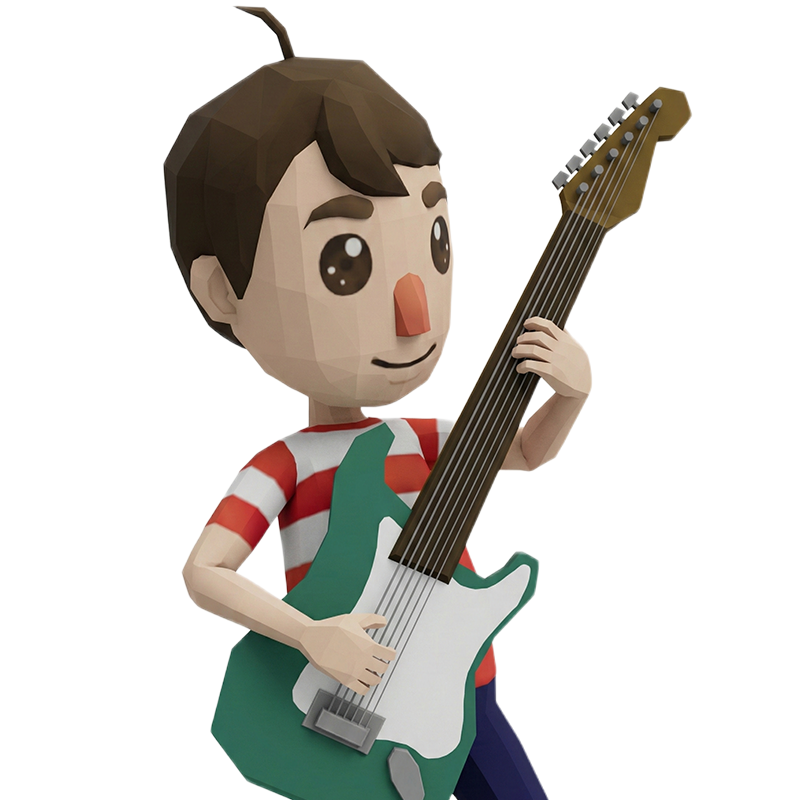
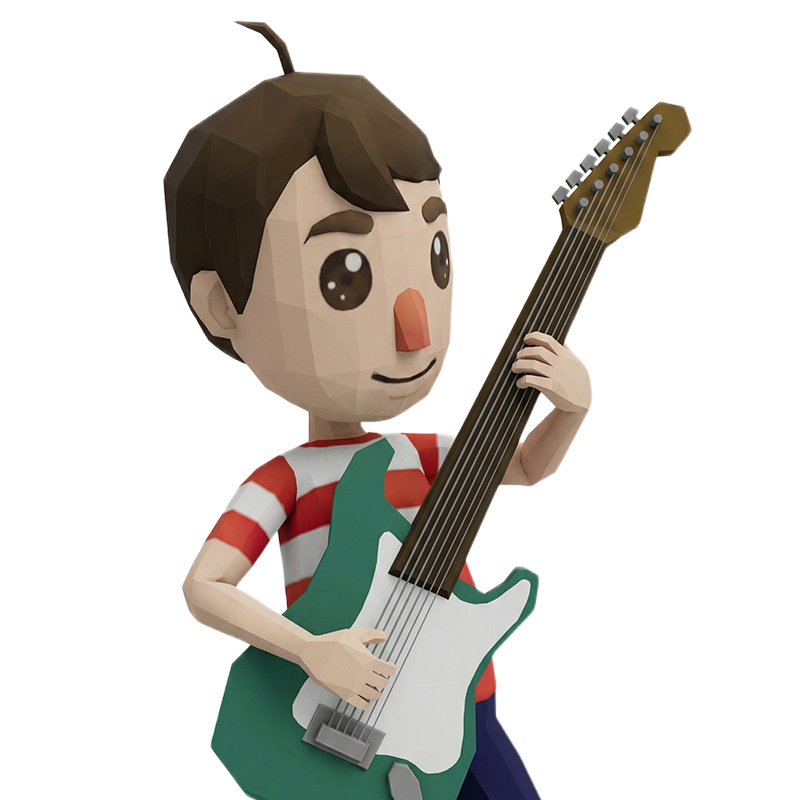
Update hero image rotation interval and adjust layout styles in Home component

diff --git a/src/pages/Home.tsx b/src/pages/Home.tsx
@@ -53,7 +53,7 @@ function Home() {
   useEffect(() => {
     const interval = window.setInterval(() => {
       setHeroIndex((current) => (current + 1) % HERO_IMAGES.length)
-    }, 4500)
+    }, 6500)
 
     return () => window.clearInterval(interval)
   }, [])
@@ -77,7 +77,7 @@ function Home() {
       <main className="relative z-10 mx-auto flex w-full max-w-6xl flex-col gap-12 px-6 pb-20 pt-10">
         <section className="grid gap-10 lg:grid-cols-[1.2fr_0.8fr]">
           <div className="flex flex-col gap-6 pt-4">
-            <div className="relative h-80 w-full max-w-sm overflow-hidden px-2 animate-fade-up [animation-delay:60ms] sm:h-96 lg:h-[30rem]">
+            <div className="relative w-full max-w-sm aspect-square overflow-hidden px-2 animate-fade-up [animation-delay:60ms]">
               {HERO_IMAGES.map((image, index) => (
                 <img
                   key={image.src}
@@ -89,7 +89,7 @@ function Home() {
                       "--fade-mask-stop": image.fadeStop ?? "60%",
                     } as CSSProperties
                   }
-                  className={`absolute bottom-0 left-1/2 h-auto w-auto max-h-full max-w-full -translate-x-1/2 transition-opacity duration-700 ease-in-out fade-mask-bottom ${image.className} ${
+                  className={`absolute bottom-0 left-1/2 h-auto w-auto max-h-full max-w-full -translate-x-1/2 transition-opacity duration-[1200ms] ease-in-out fade-mask-bottom ${image.className} ${
                     index === heroIndex ? "opacity-100" : "opacity-0"
                   }`}
                 />
